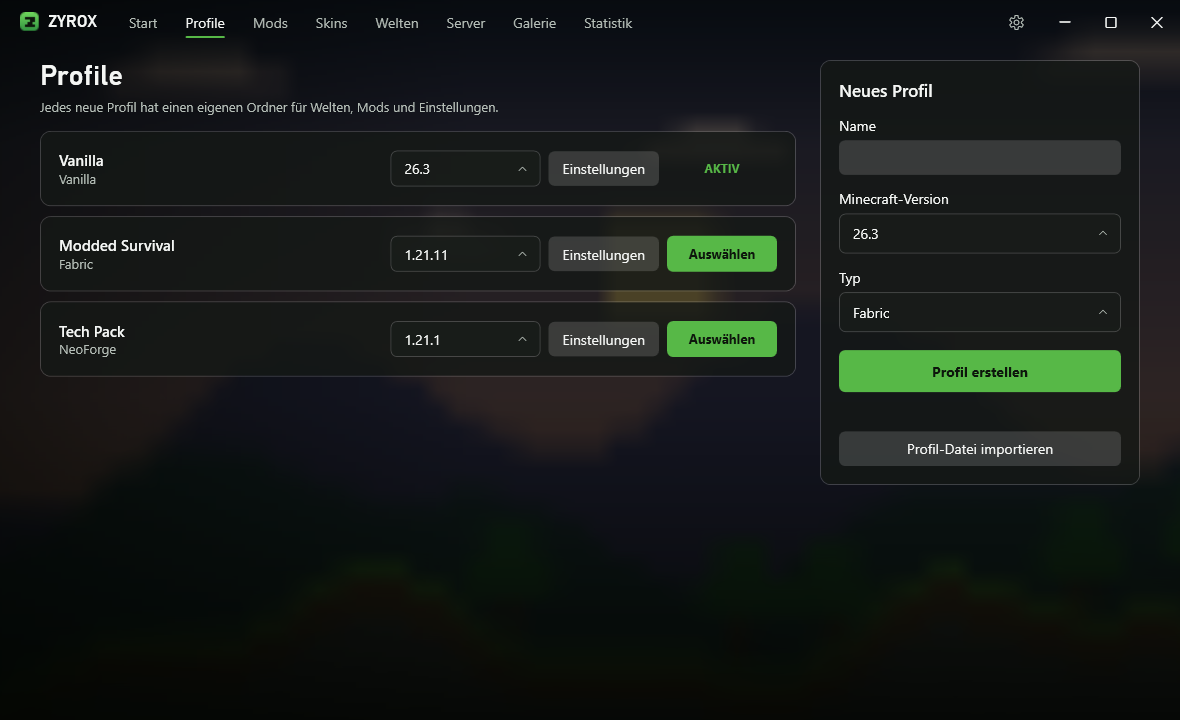
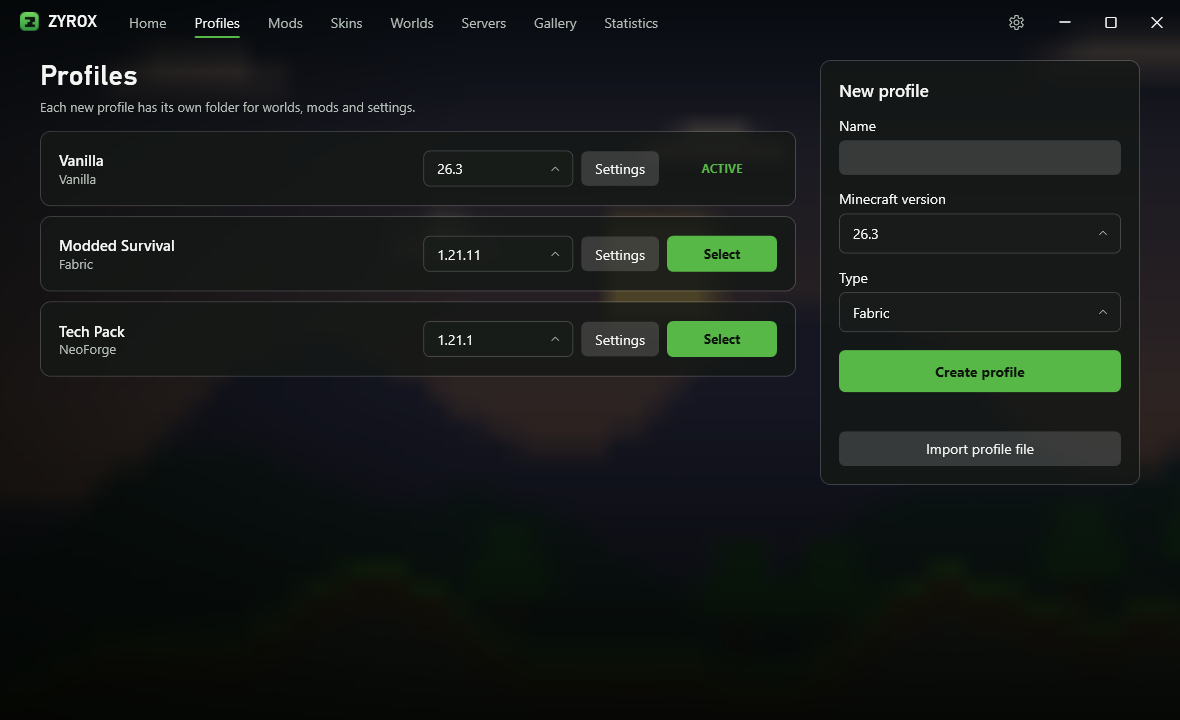
Use English screenshots on the website

diff --git a/index.html b/index.html
@@ -1,4 +1,4 @@
-<!DOCTYPE html>
+<!DOCTYPE html>
 <html lang="en">
 <head>
 <meta charset="UTF-8">
@@ -258,6 +258,15 @@ footer p { margin: 12px 0 0; }
       <h2>Changelog</h2>
     </div>
     <article class="changelog">
+      <div>
+        <h3>2.1.2</h3>
+        <time datetime="2026-11-04">November 4, 2026</time>
+      </div>
+      <ul>
+        <li>The whole launcher is now in English.</li>
+      </ul>
+    </article>
+    <article class="changelog" style="margin-top:12px">
       <div>
         <h3>2.1.1</h3>
         <time datetime="2026-11-04">November 4, 2026</time>
